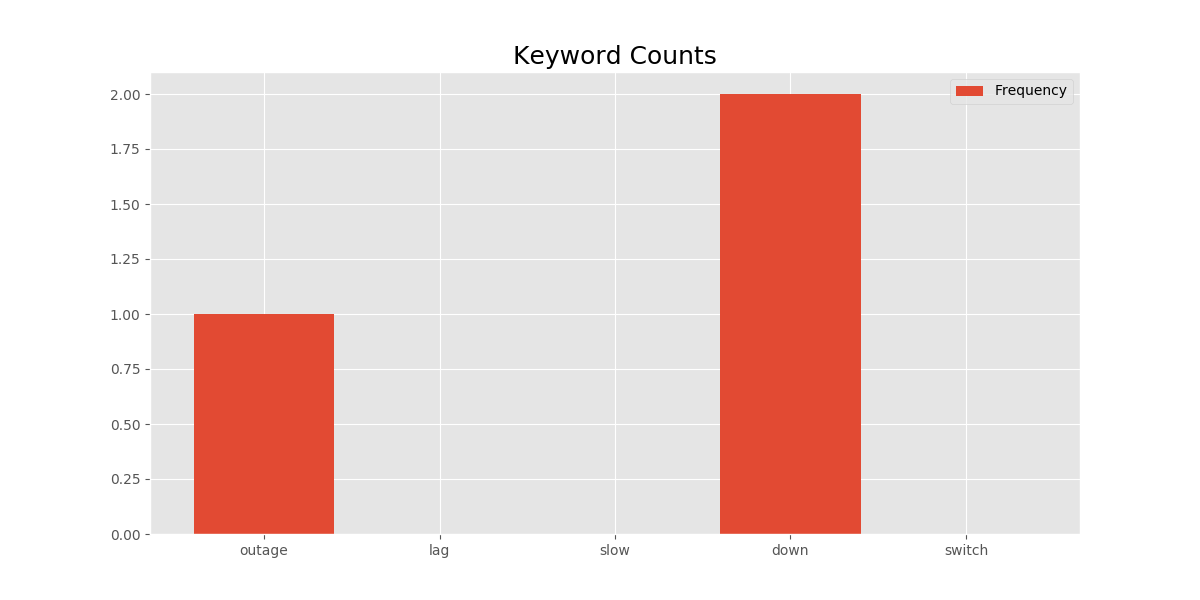
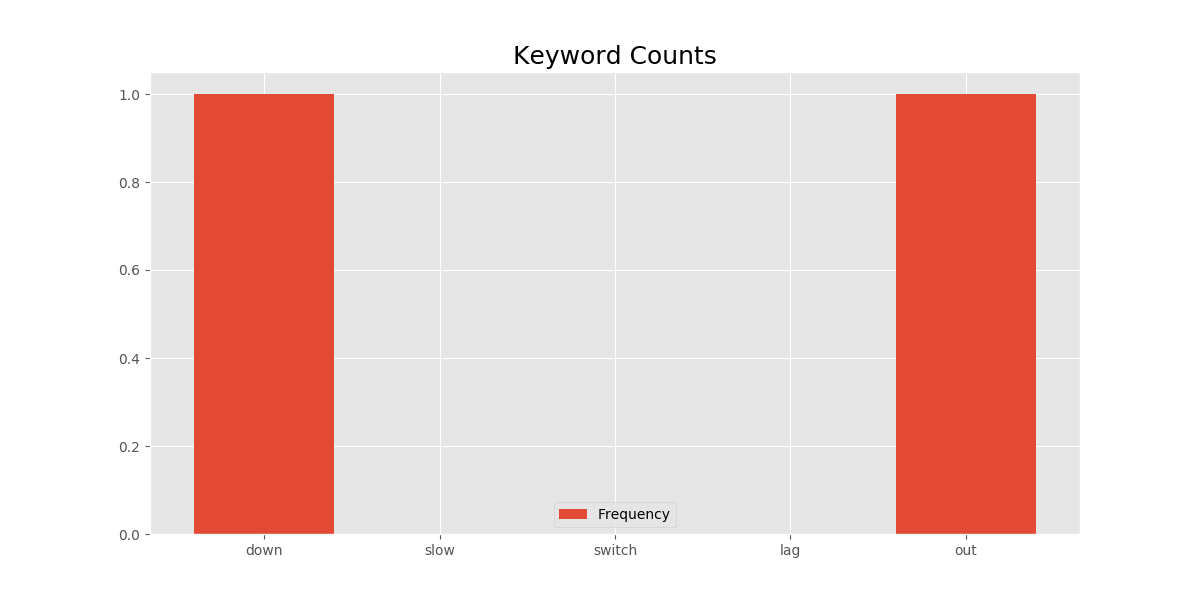
fixed kewords for out:

diff --git a/WordFrequency.py b/WordFrequency.py
@@ -56,7 +56,7 @@ def get_most_popular_words(df):
     return final.set_index('Word')
 
 def get_keyword_counts(df):
-    keywords = ['outage','lag','slow','down','switch']
+    keywords = ['out','lag','slow','down','switch']
 
     df['text'] = df['text'].apply(lambda x: clean_tweet(x))
 
@@ -67,10 +67,12 @@ def get_keyword_counts(df):
     for keyword in keywords:
         match_dict[keyword] = 0
         for aword, word_freq in zip(word_count.keys(), word_count.values()):
-            if keyword in aword:
+            if keyword == "out":
+                match_dict[keyword] = word_freq
+            elif keyword in aword:
                 match_dict[keyword] += word_freq
 
-    final = pd.DataFrame(match_dict.values(), index=keywords, columns=['Frequency'])
+    final = pd.DataFrame(match_dict.values(), index=match_dict.keys(), columns=['Frequency'])
     return final;
 
 ################################################################################################
@@ -112,6 +114,7 @@ def word_frequency():
         tweets =  pd.read_csv('datasets/' + user + '_tweets.csv', names=['tweet_date', 'text'],encoding='utf-8',na_values="NaN")
         tweets = tweets[pd.notnull(tweets['text'])]
 
+        plot_keywords(user,tweets)
         plot_word_counts(user,tweets)
 
     tweets =  pd.read_csv('datasets/' + users[0] + '_hashtags.csv', names=['tweet_date', 'text'],encoding='utf-8')
